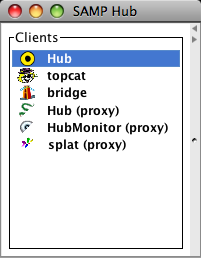
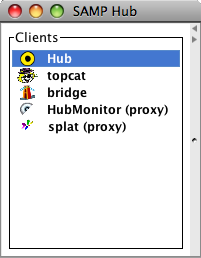
No longer include proxy for hub clients by default

Changed region(s): [[0.2388, 0.4031, 0.8358, 0.5891], [0.0896, 0.3721, 0.1791, 0.5891], [0.9851, 0.0, 1.0, 0.031]]

diff --git a/astrogrid/samp/src/test/java/org/astrogrid/samp/BridgeTest.java b/astrogrid/samp/src/test/java/org/astrogrid/samp/BridgeTest.java
@@ -108,10 +108,10 @@ public class BridgeTest extends TestCase {
             assertEquals( nhub - 1,
                           connection.getSubscribedClients( ECHO_MTYPE )
                                     .size() );
-            assertEquals( ( nhub - 1 ) * 2 + 2,
+            assertEquals( ( nhub - 1 ) + 2,
                           connection.getRegisteredClients().length );
 
-            assertEquals( ( nhub - 1 ) * 2, getProxyCount( clientMap ) );
+            assertEquals( ( nhub - 1 ), getProxyCount( clientMap ) );
             assertTrue( hasBridge( clientMap ) );
 
             Set srcSet = new HashSet();
